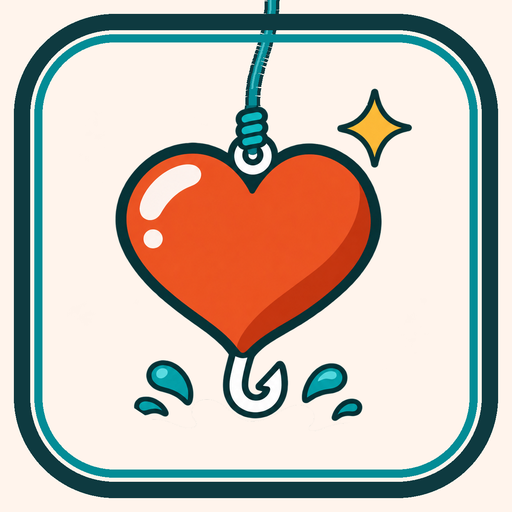
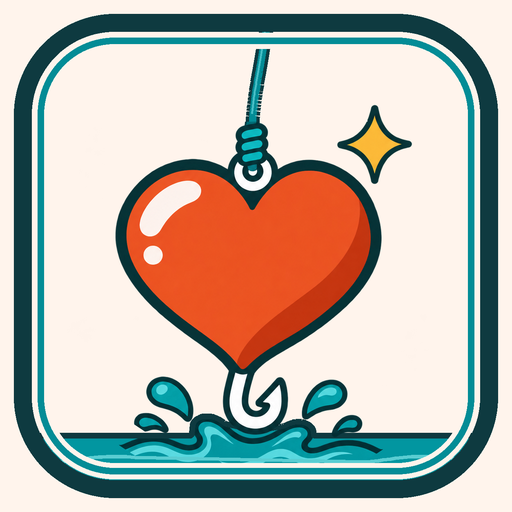
App 圖示：內框加上底色描邊，海浪回到底部
- 照示範圖調整：藍綠內框兩側加上米色描邊，和深色外框、海浪分開
- 底部恢復整條海浪（跟著原圖浪頭起伏），只畫在框內
- 釣線從打結處往上穿出畫面
- 圖示版本參數改為 v=6

Claude-Session: https://claude.ai/code/session_01TfsCMMS1EukxMS38GiAAfD

Changed region(s): [[0.0312, 0.0, 0.9688, 0.9688]]

diff --git a/index.html b/index.html
@@ -11,8 +11,8 @@
 <meta name="apple-mobile-web-app-status-bar-style" content="default">
 <meta name="apple-mobile-web-app-title" content="今天餵誰">
 <link rel="manifest" href="manifest.json">
-<link rel="icon" type="image/png" sizes="32x32" href="icons/favicon-32.png?v=5">
-<link rel="apple-touch-icon" href="icons/apple-touch-icon-180.png?v=5">
+<link rel="icon" type="image/png" sizes="32x32" href="icons/favicon-32.png?v=6">
+<link rel="apple-touch-icon" href="icons/apple-touch-icon-180.png?v=6">
 <link rel="preconnect" href="https://fonts.googleapis.com">
 <link rel="preconnect" href="https://fonts.gstatic.com" crossorigin>
 <link rel="stylesheet" href="https://fonts.googleapis.com/css2?family=Chiron+GoRound+TC:wght@400;700&family=Noto+Sans+TC:wght@400;500;700;900&display=swap">
